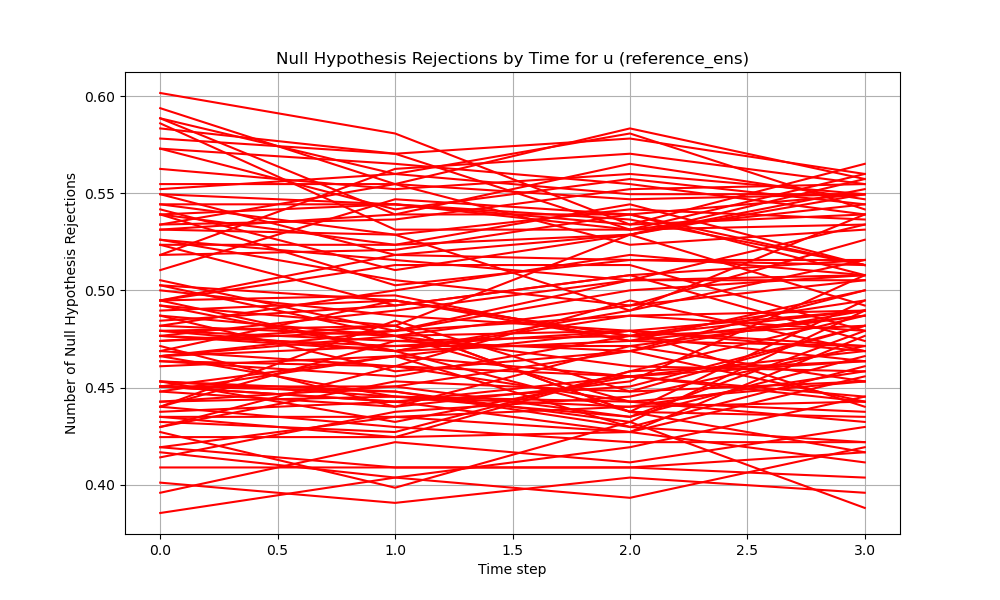
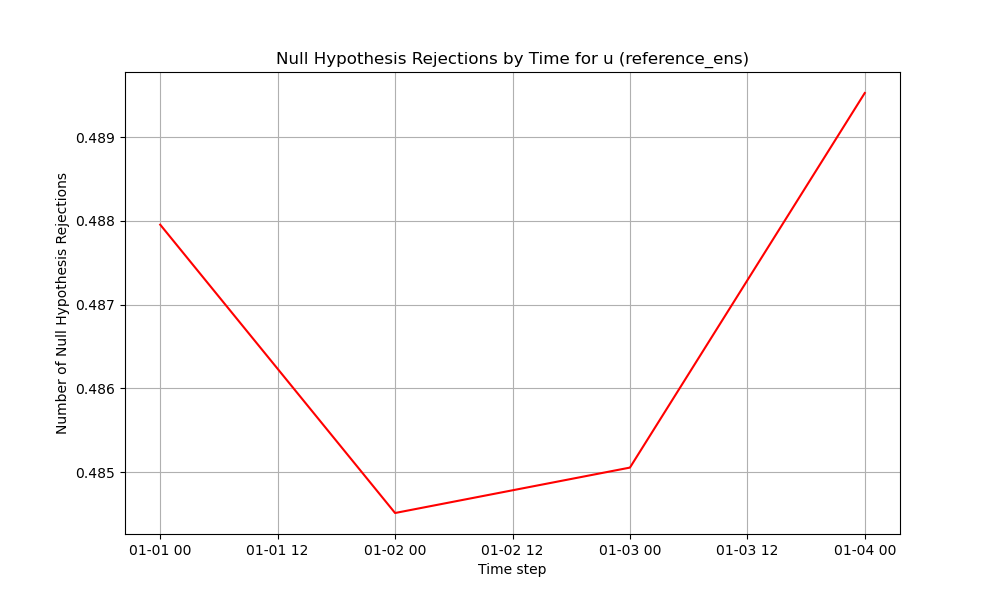
done done done

diff --git a/examine_normality_test_pvals.py b/examine_normality_test_pvals.py
@@ -98,7 +98,7 @@ def plot_rejections_by_latitude(latitudes, rejection_latitude, ensemble_name, va
 
 def plot_rejections_by_level(levels, rejection_level, ensemble_name, variable_name):
     plt.figure(figsize=(10, 6))
-    plt.plot(np.arange(len(levels)), rejection_level, label='Rejections by Level', color='green')
+    plt.plot(levels, rejection_level, label='Rejections by Level', color='green')
     plt.xlabel('Model Level')
     plt.ylabel('Number of Null Hypothesis Rejections')
     plt.title(f'Null Hypothesis Rejections by Model Level for {variable_name} ({ensemble_name})')
@@ -108,7 +108,7 @@ def plot_rejections_by_level(levels, rejection_level, ensemble_name, variable_na
 
 def plot_rejections_by_time(time_steps, rejection_time, ensemble_name, variable_name):
     plt.figure(figsize=(10, 6))
-    plt.plot(np.arange(len(time_steps)), rejection_time, label='Rejections by Time', color='red')
+    plt.plot(time_steps, rejection_time, label='Rejections by Time', color='red')
     plt.xlabel('Time step')
     plt.ylabel('Number of Null Hypothesis Rejections')
     plt.title(f'Null Hypothesis Rejections by Time for {variable_name} ({ensemble_name})')
@@ -149,12 +149,13 @@ time_steps = [start_date + timedelta(days=i) for i in range(len(significance))]
 
 ## plot the results (looks very pretty with our functions)
 rejection_latitude = np.mean(significance, axis=(0, 1, 3))
+print(latitudes_combined.shape)
 plot_rejections_by_latitude(latitudes_combined[0], rejection_latitude, ensemble_name, variable_name)
 
 rejection_level = np.mean(significance, axis=(0, 2, 3)) 
 plot_rejections_by_level(np.arange(8), rejection_level, ensemble_name, variable_name)
 
-rejection_time = np.mean(significance, axis=(1, 2)) 
-plot_rejections_by_time(np.arange(len(significance)), rejection_time, ensemble_name, variable_name)
+rejection_time = np.mean(significance, axis=(1, 2, 3)) 
+plot_rejections_by_time(time_steps, rejection_time, ensemble_name, variable_name)
 
 
